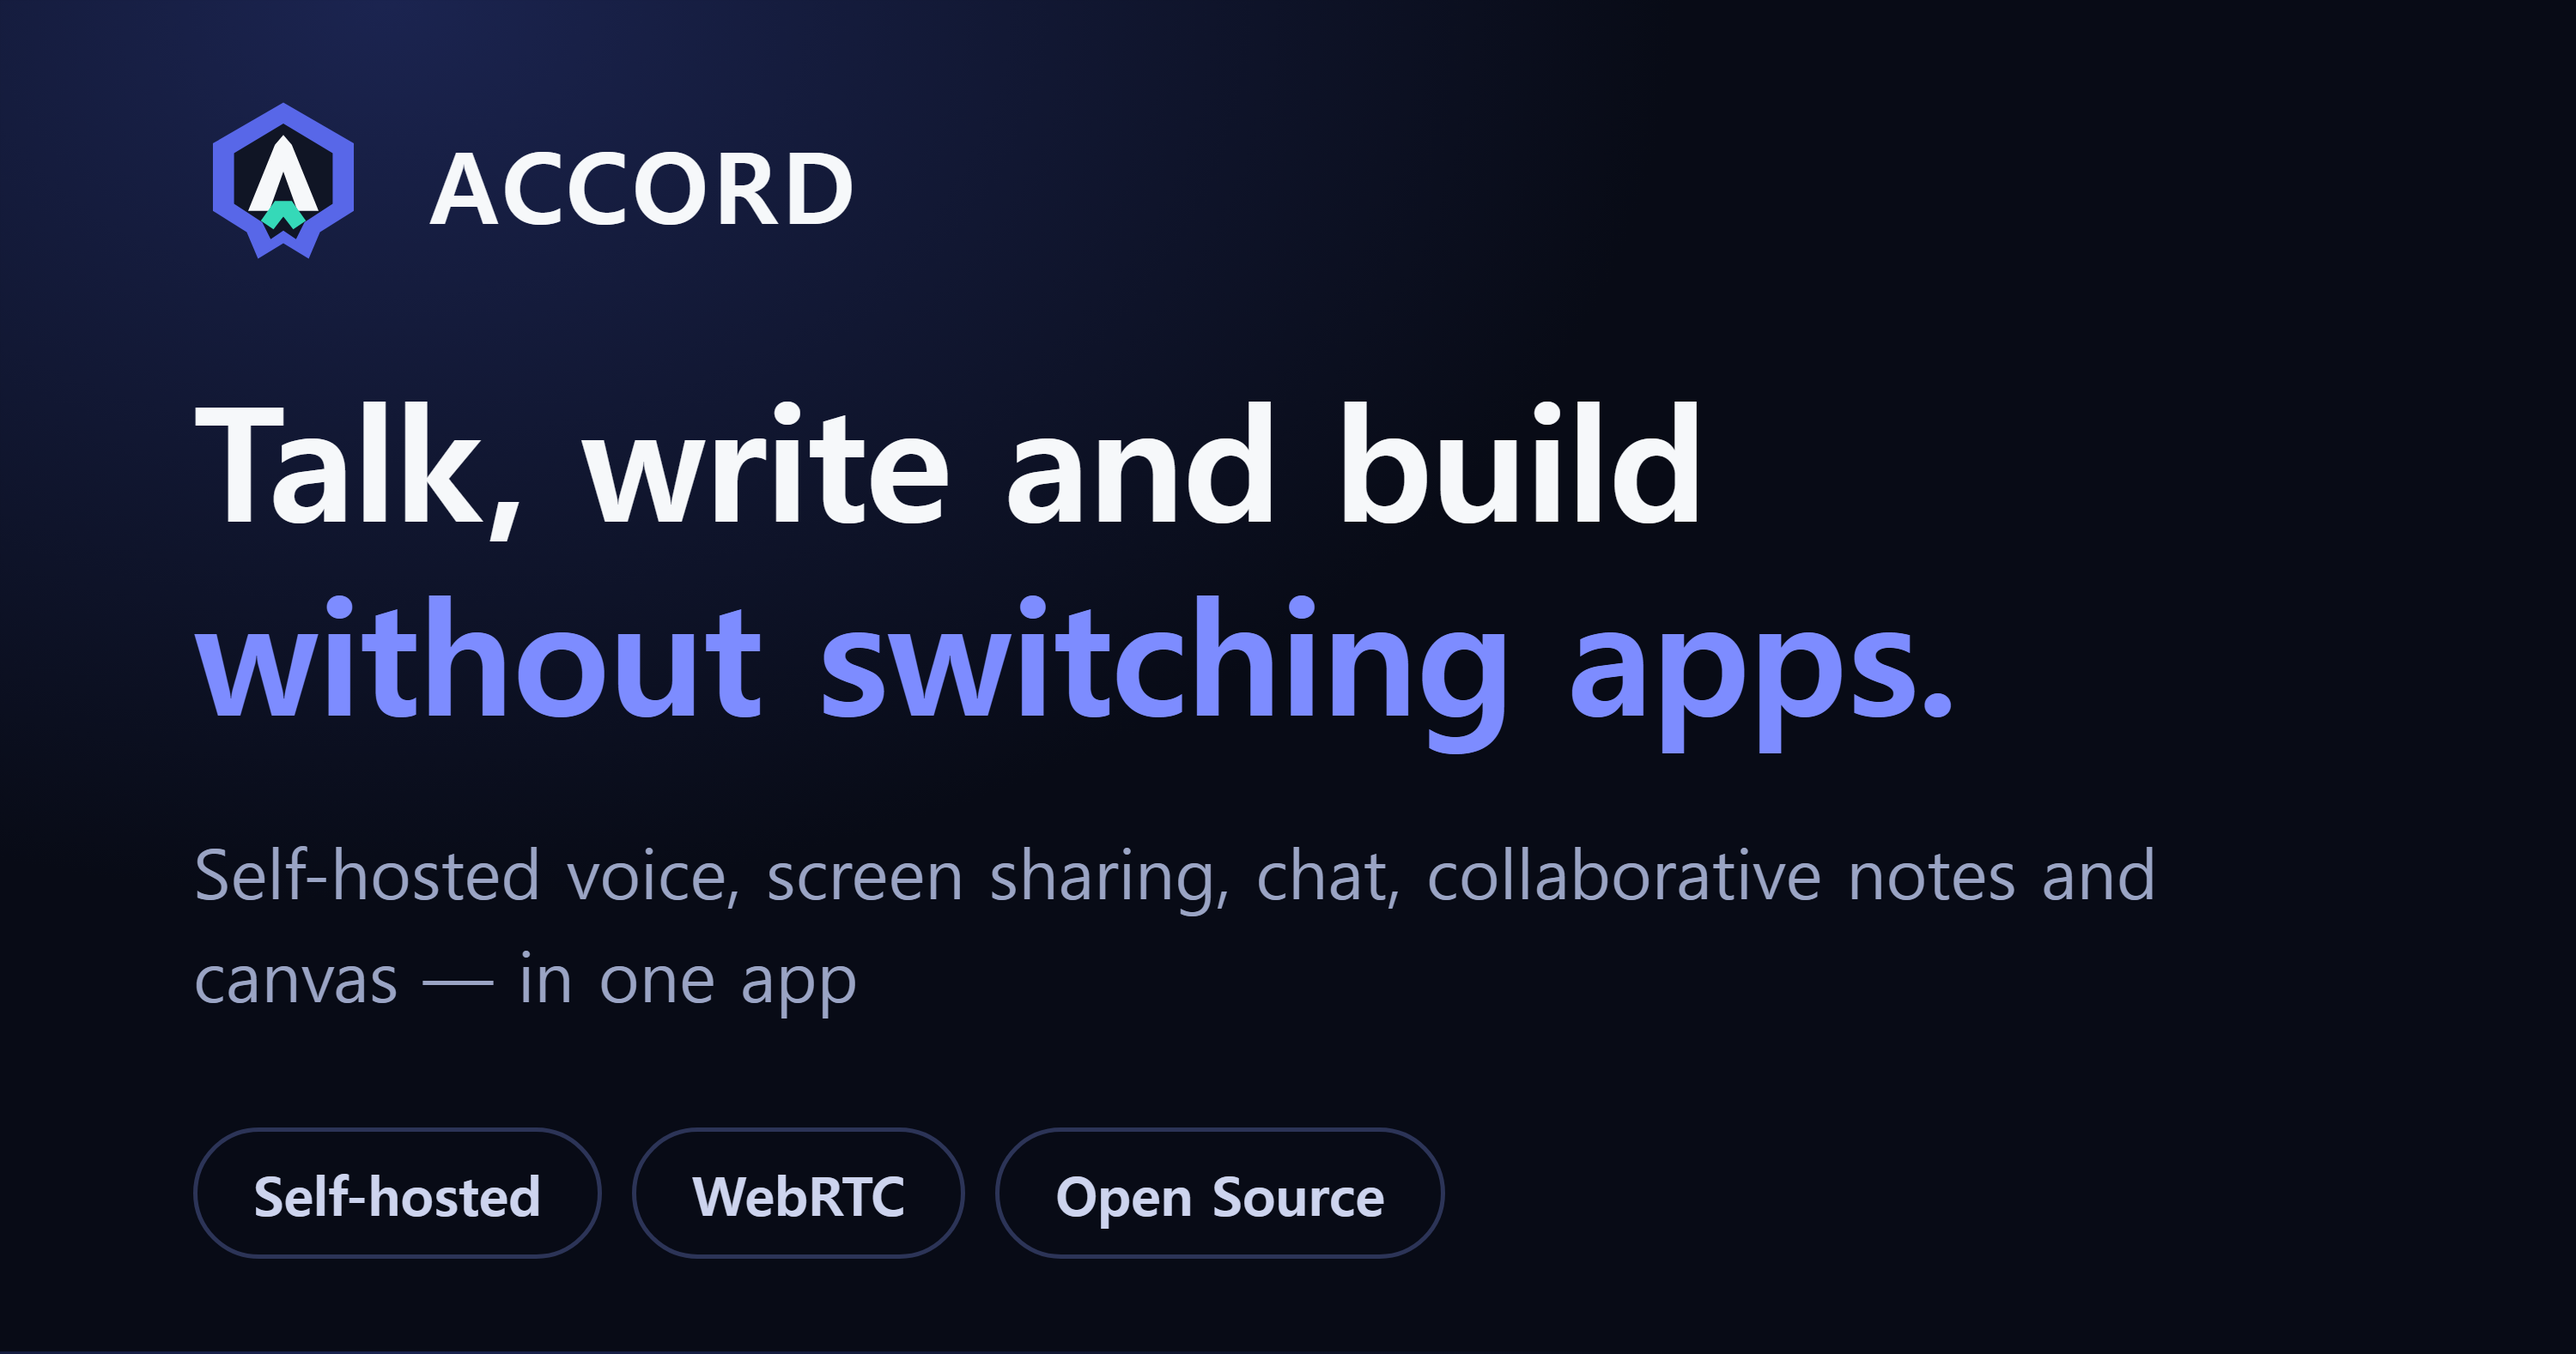
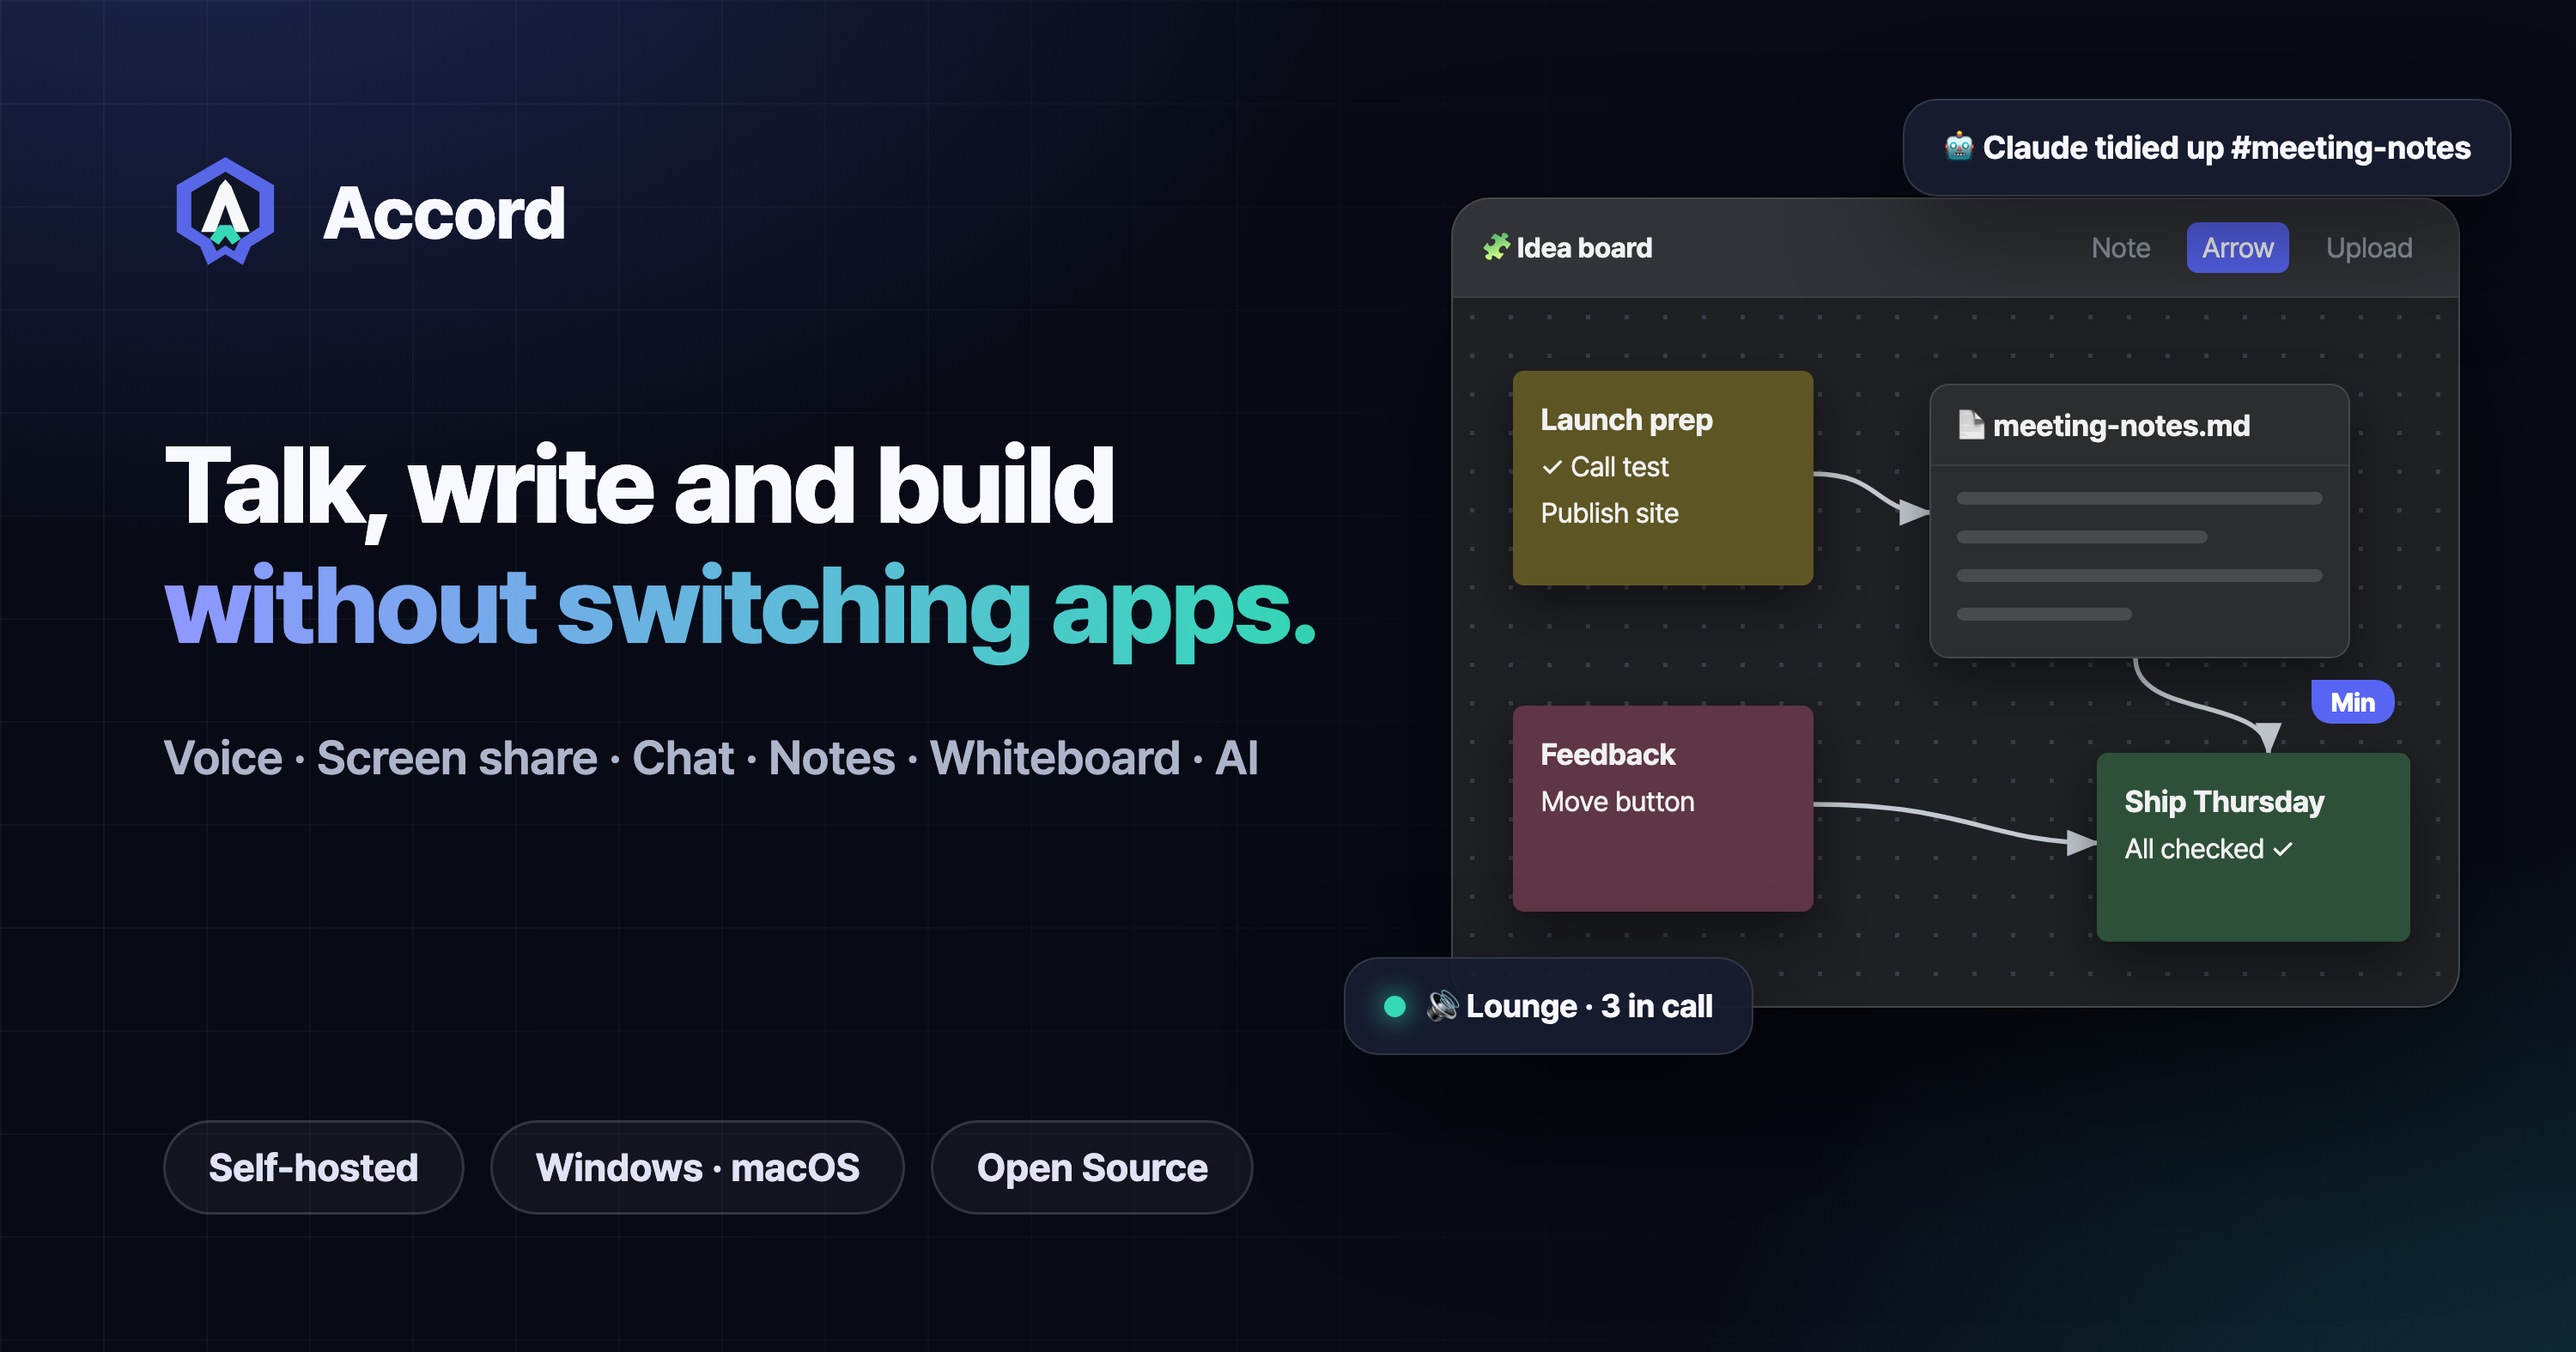
edit: 홍보용 OG 이미지 새로 만들기(화이트보드·AI·통화)

diff --git a/website/en/index.html b/website/en/index.html
@@ -16,12 +16,12 @@
       content="A self-hosted workspace where the call, the chat, the notes and the canvas all live together."
     />
     <meta property="og:url" content="https://craft374.github.io/Accord/en/" />
-    <meta property="og:image" content="https://craft374.github.io/Accord/og-en.png" />
+    <meta property="og:image" content="https://craft374.github.io/Accord/og-en.png?v=2" />
     <meta property="og:locale" content="en_US" />
     <meta name="twitter:card" content="summary_large_image" />
     <meta name="twitter:title" content="Accord — Talk, write and build in one place" />
     <meta name="twitter:description" content="A self-hosted workspace where the call, the chat, the notes and the canvas all live together." />
-    <meta name="twitter:image" content="https://craft374.github.io/Accord/og-en.png" />
+    <meta name="twitter:image" content="https://craft374.github.io/Accord/og-en.png?v=2" />
     <link rel="canonical" href="https://craft374.github.io/Accord/en/" />
     <link rel="alternate" hreflang="ko" href="https://craft374.github.io/Accord/" />
     <link rel="alternate" hreflang="en" href="https://craft374.github.io/Accord/en/" />

diff --git a/website/index.html b/website/index.html
@@ -16,12 +16,12 @@
       content="말하고, 기록하고, 함께 만드는 셀프 호스팅 협업 공간."
     />
     <meta property="og:url" content="https://craft374.github.io/Accord/" />
-    <meta property="og:image" content="https://craft374.github.io/Accord/og.png" />
+    <meta property="og:image" content="https://craft374.github.io/Accord/og.png?v=2" />
     <meta property="og:locale" content="ko_KR" />
     <meta name="twitter:card" content="summary_large_image" />
     <meta name="twitter:title" content="Accord — 대화와 기록, 협업이 하나의 흐름으로" />
     <meta name="twitter:description" content="말하고, 기록하고, 함께 만드는 셀프 호스팅 협업 공간." />
-    <meta name="twitter:image" content="https://craft374.github.io/Accord/og.png" />
+    <meta name="twitter:image" content="https://craft374.github.io/Accord/og.png?v=2" />
     <link rel="canonical" href="https://craft374.github.io/Accord/" />
     <link rel="alternate" hreflang="ko" href="https://craft374.github.io/Accord/" />
     <link rel="alternate" hreflang="en" href="https://craft374.github.io/Accord/en/" />
